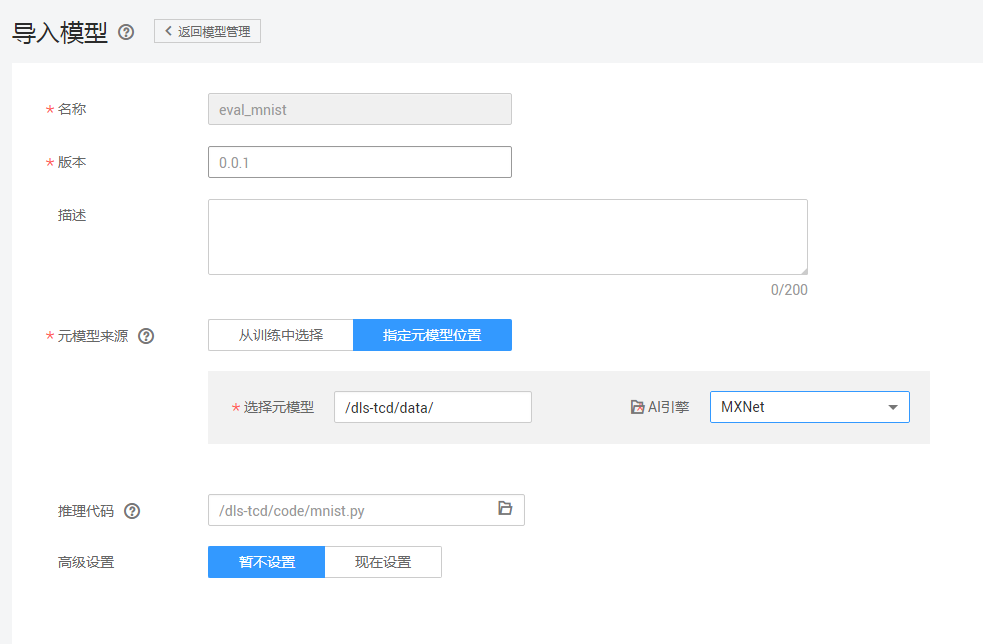
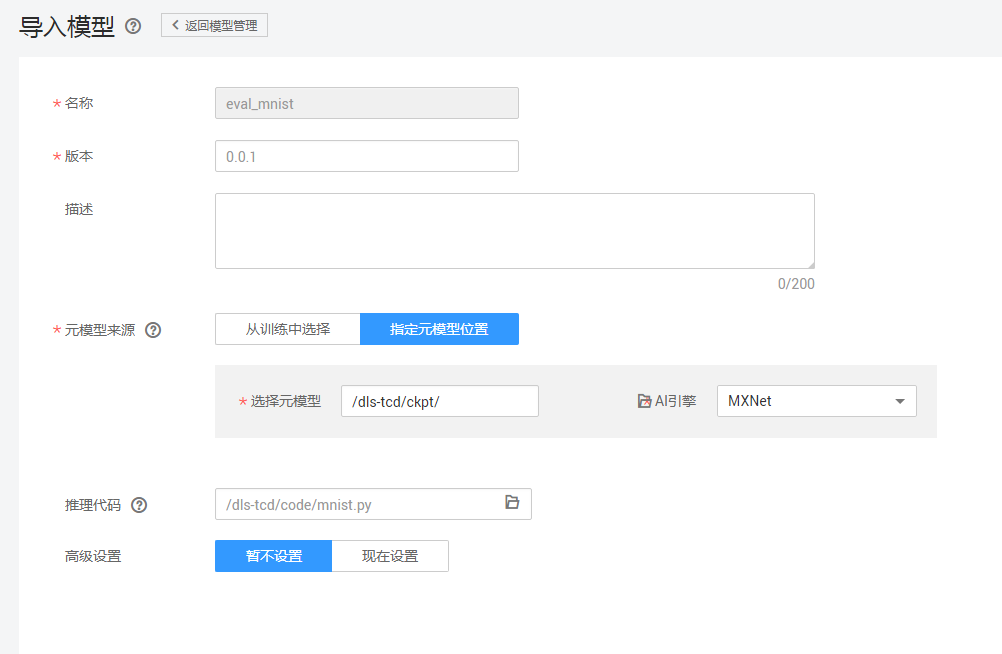
fix pic problems

diff --git a/Using MXNet to Create a MNIST Dataset Recognition Application/README.md b/Using MXNet to Create a MNIST Dataset Recognition Application/README.md
@@ -55,22 +55,30 @@
 
 模型训练完成后，可以创建预测作业，将模型部署为在线预测服务，操作步骤如下：
 
-**步骤 1**  &#160; &#160; 在“模型管理”界面，单击左上角的“导入”，参考图2填写参数。其中，名称可随意填写。推理代码参考<a href ="codes/dls_classification_service.py">dls\_classification\_service.py</a> 。将推理代码上传到obs，并将其文件路径设置到模型参数配置中的“推理代码”输入框。具体的模型参数如图2。
+**步骤 1**  &#160; &#160; 在“模型管理”界面，单击左上角的“导入”，参考图2填写参数。
 
 图2 导入模型参数配置
 
 <img src="images/导入模型参数配置.PNG" width="800px" />
 
-其中元模型的路径需要设置为.params和.json文件所在文件夹的上一层文件夹，比如图3红框的路径：/data/
+
+
+其中元模型的路径需要设置为.params和.json文件所在文件夹的上一层文件夹，比如图3红框的路径：/dls-tcd/ckpt/
 
 图3 元模型指定路径
 
-<img src="images/元模型指定路径.png" width="400px" />
+<img src="images/元模型指定路径.png" width="800px" />
+
+
+
+推理代码参考<a href ="codes/dls_classification_service.py">dls\_classification\_service.py</a> ，名称可随意填写。将推理代码上传到obs，并将其文件路径设置到模型参数配置中的“推理代码”输入框。
+
+
 
 **步骤 2**  &#160; &#160; 参数确认无误后，单击“立即创建”，完成模型创建。
 
 
-当模型状态为“正常”时，表示创建成功。单击部署-在线服务，创建预测服务，参考图3填写参数。
+当模型状态为“正常”时，表示创建成功。单击部署-在线服务，创建预测服务，参考图4填写参数。
 
 图4 部署在线服务参数配置
 
@@ -78,7 +86,7 @@
 
 
 ### 4. 发起预测请求
-完成模型部署后，在部署上线-在线服务界面可以看到已上线的预测服务名称，点击进入可以进行在线预测，如图4。
+完成模型部署后，在部署上线-在线服务界面可以看到已上线的预测服务名称，点击进入可以进行在线预测，如图5。
 
 图5 在线服务测试
 
